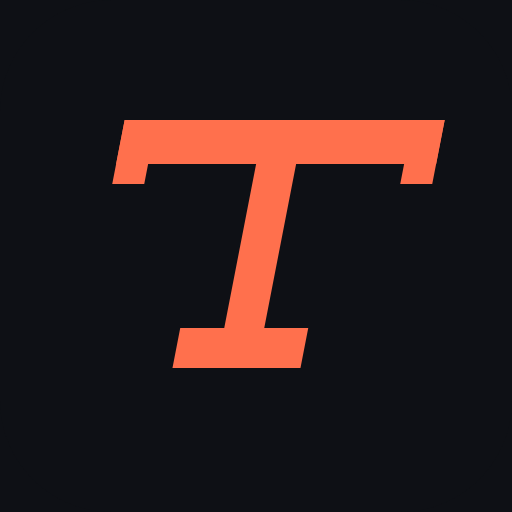
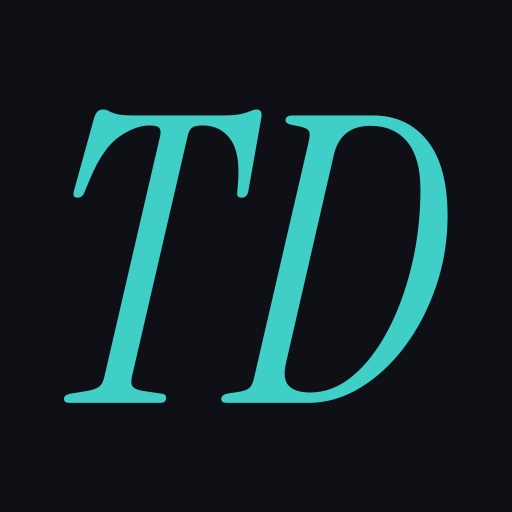
Switch the accent to teal, and the mark to a TD monogram
The orange was the default warm accent half of engineering portfolios
use, and it was also the weakest colour on the site: 4.0:1 on the light
theme, which only passes for large text. Teal is 10.4:1 on dark and
4.9:1 on light, so the light theme now passes AA properly.

The mark is TD set in Instrument Serif italic — the same face and the
same slant as "de Souza" in the hero. The outlines are the real glyphs,
extracted from the font with fontkit and baked into the SVG as a path:
baked rather than generated at build time so the repo needs no
font-parsing dependency, and so a favicon never depends on a font the
browser has not loaded. The previous slab-serif letterform read as a
sports crest.

One token drives all of it, so this also moves the nav glyph, the
favicon, the iOS icons, the share card and the weekly email, whose bars
take a muted version — full-strength teal is too loud for a block that
size in an inbox.

og-image.mjs now honours PLAYWRIGHT_CHROMIUM_PATH, so it can run where a
browser is already installed instead of insisting on downloading one.

Claude-Session: https://claude.ai/code/session_019uQu4La6pKjHsDELztm4Yv

Changed region(s): [[0.125, 0.1875, 0.875, 0.8125]]

diff --git a/src/styles/global.css b/src/styles/global.css
@@ -28,8 +28,8 @@
   --fg-faint: #6b7183;
 
   /* Signal ---------------------------------------------------------------- */
-  --accent: #ff704d;
-  --accent-ink: #ffb59f;
+  --accent: #3fcfc7;
+  --accent-ink: #9fe8e3;
   --accent-soft: color-mix(in oklab, var(--accent) 16%, transparent);
   --accent-glow: color-mix(in oklab, var(--accent) 40%, transparent);
 
@@ -70,8 +70,8 @@
   --fg: #14151a;
   --fg-muted: #5b6070;
   --fg-faint: #8b90a0;
-  --accent: #d94a24;
-  --accent-ink: #a83716;
+  --accent: #0f7a74;
+  --accent-ink: #0a5a55;
 }
 
 /* ============================================================================
